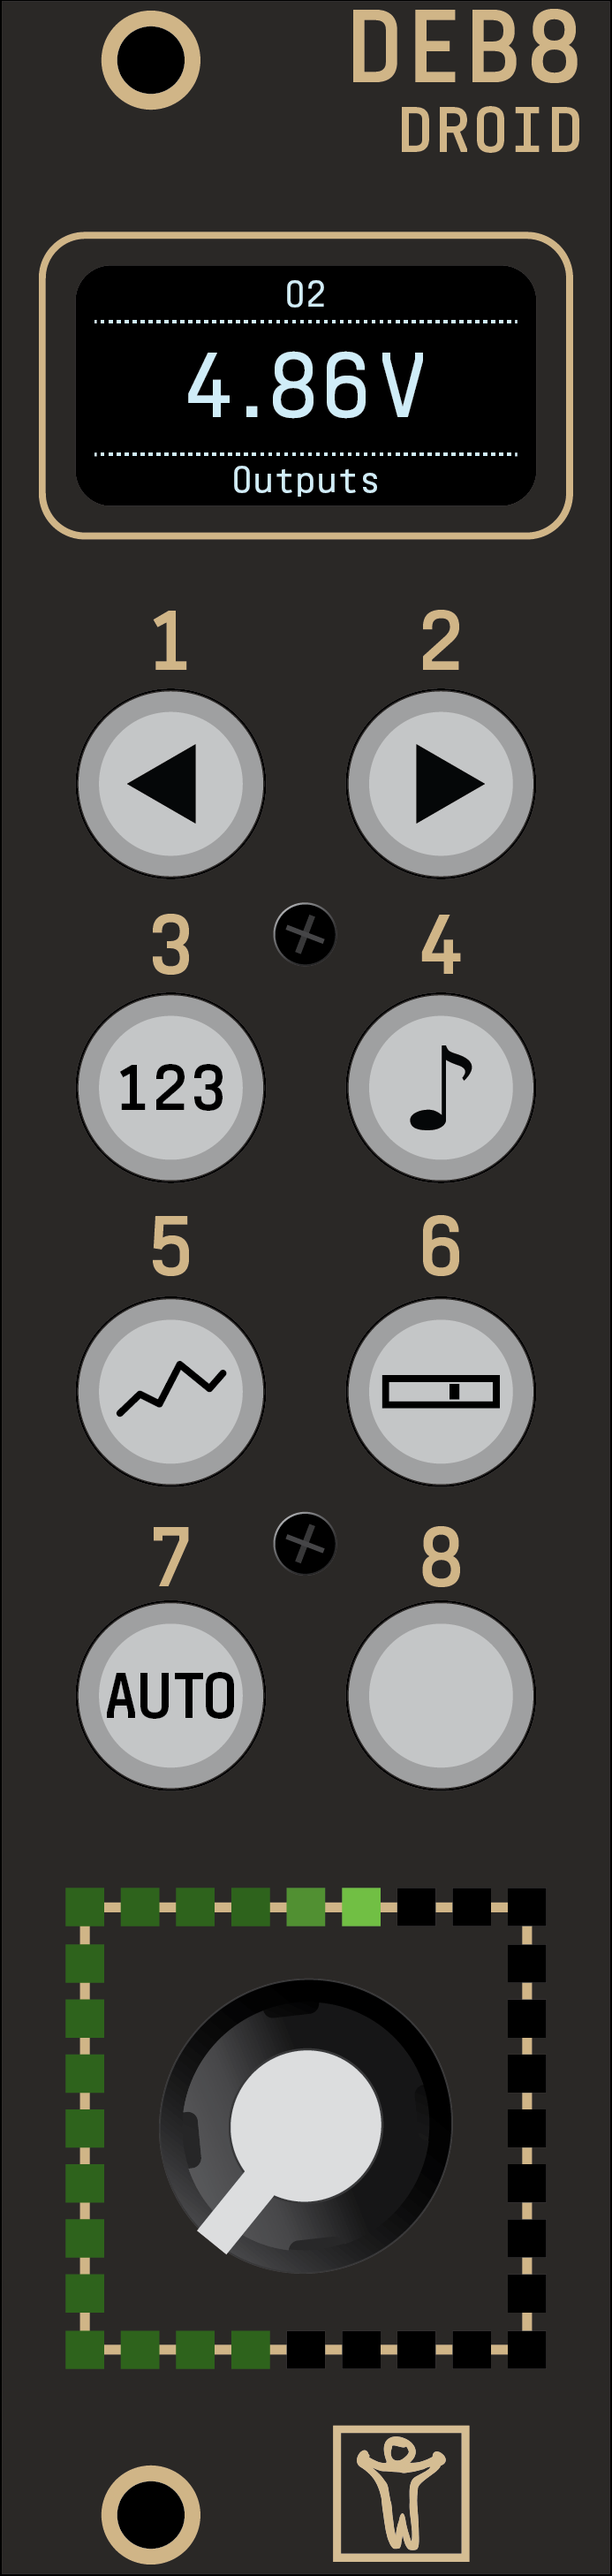
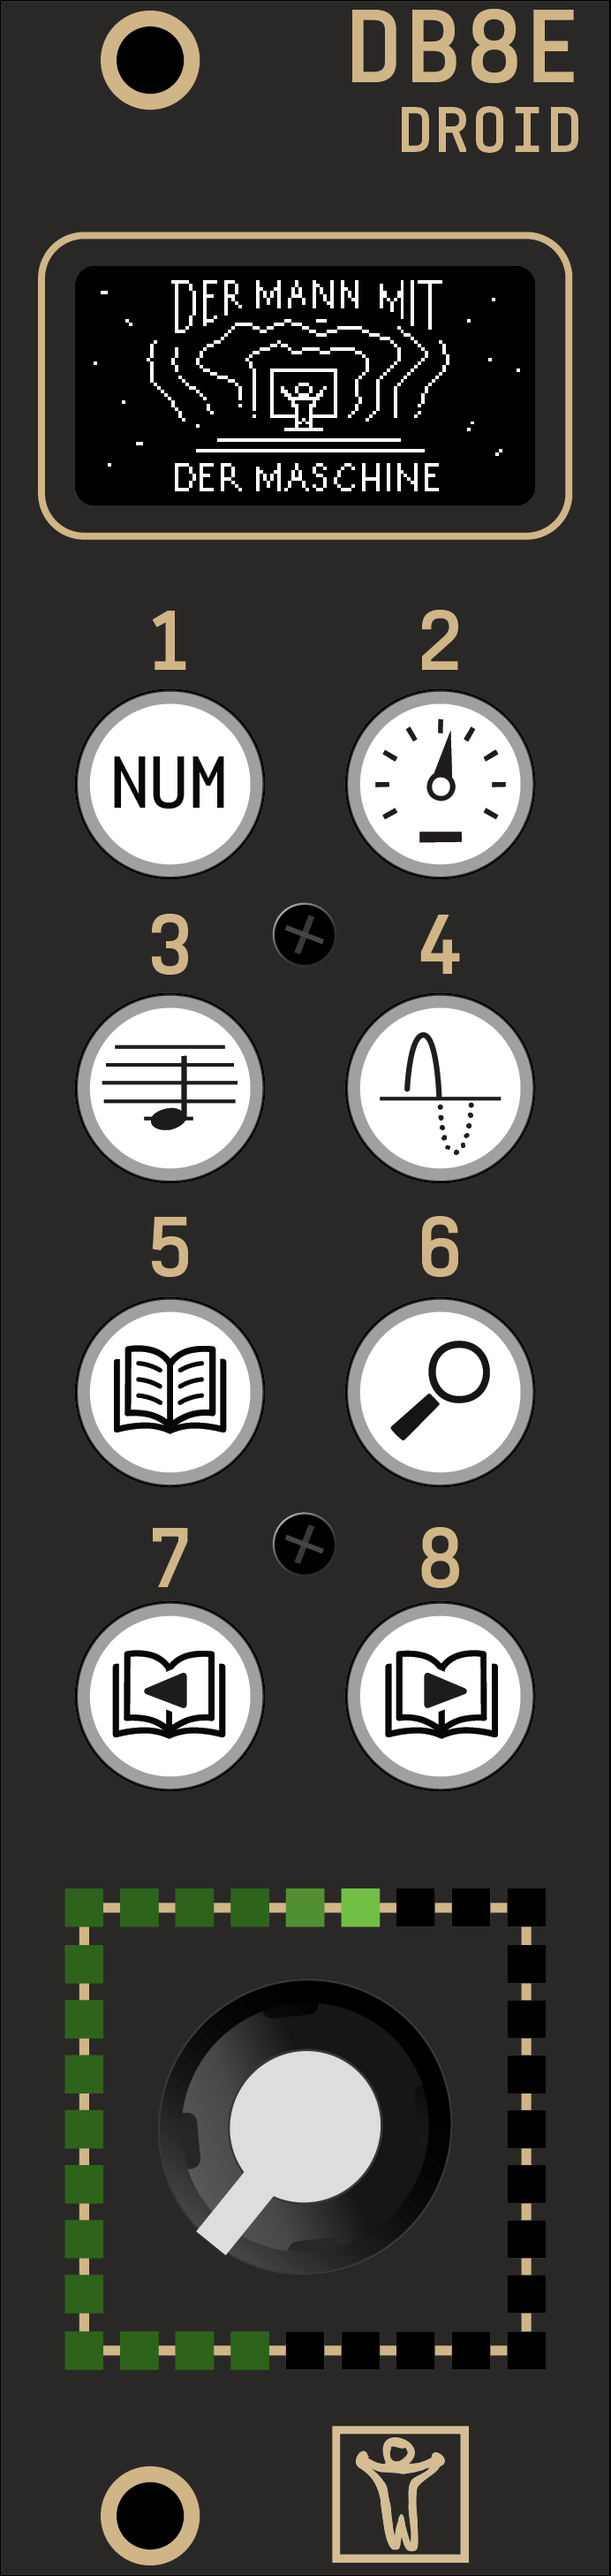
Updated Faceplate of DB8E, new version number

diff --git a/droidforge/main/tuning.h b/droidforge/main/tuning.h
@@ -1,14 +1,13 @@
 #ifndef TUNING_H
 #define TUNING_H
 
-#include "globals.h"
 
 
 #define APPLICATION_NAME                     "DROID Forge"
 #ifdef QT_DEBUG
 #define APPLICATION_VERSION                  ("SNAPSHOT " __DATE__)
 #else
-#define APPLICATION_VERSION                  "1.6"
+#define APPLICATION_VERSION                  "1.7"
 #endif
 #define LICENSE_URL                          "https://www.gnu.org/licenses/gpl.txt"
 #define DISCORD_URL                          "https://discord.com/invite/9TUcRmH"
